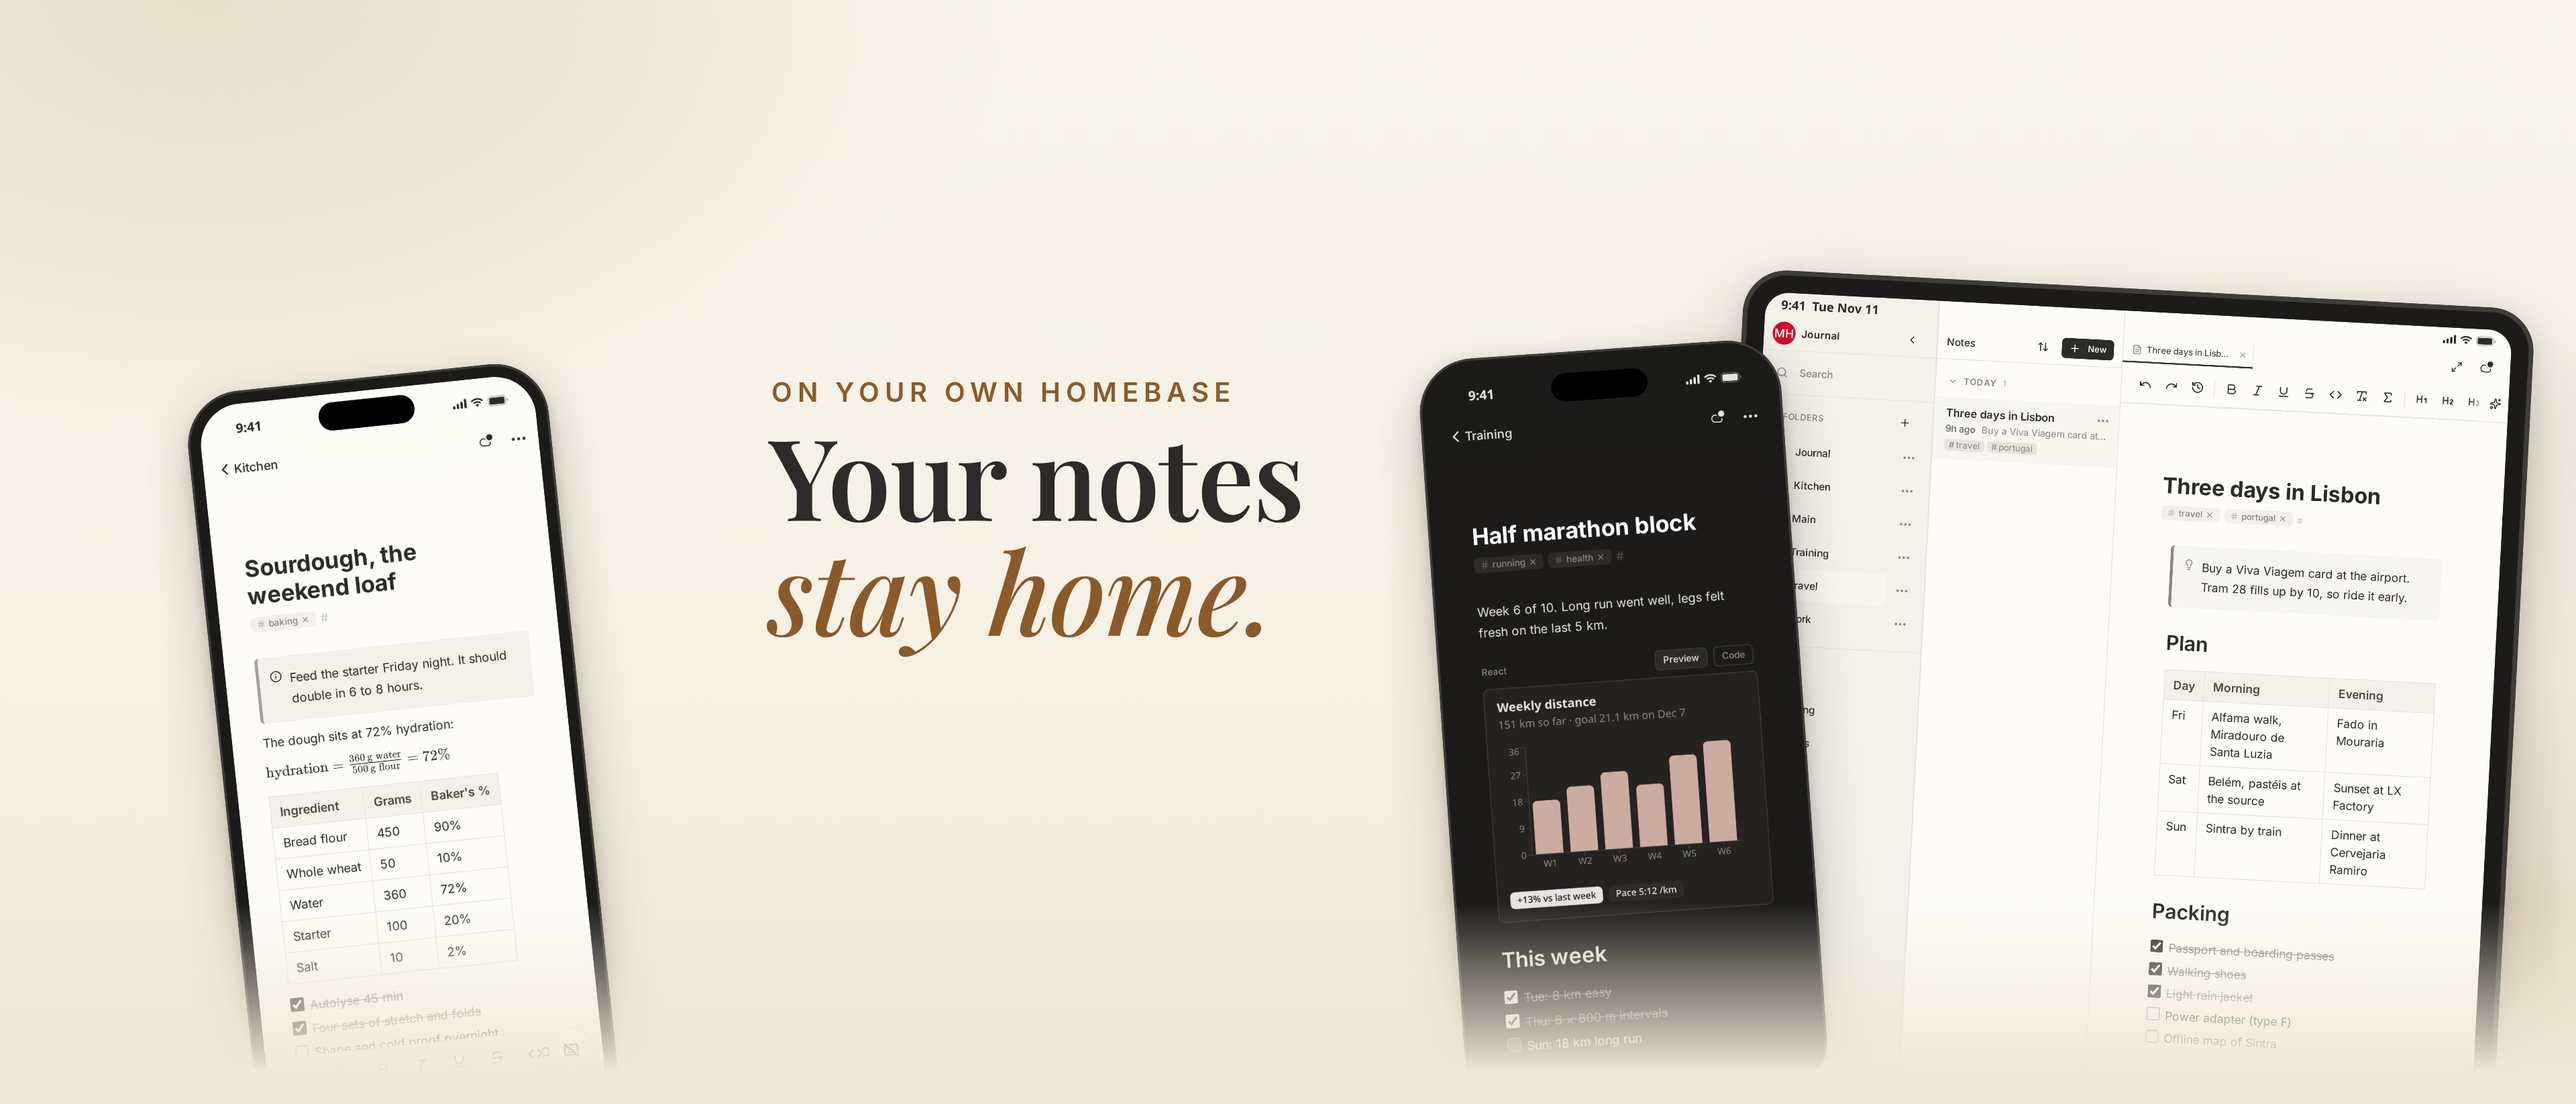
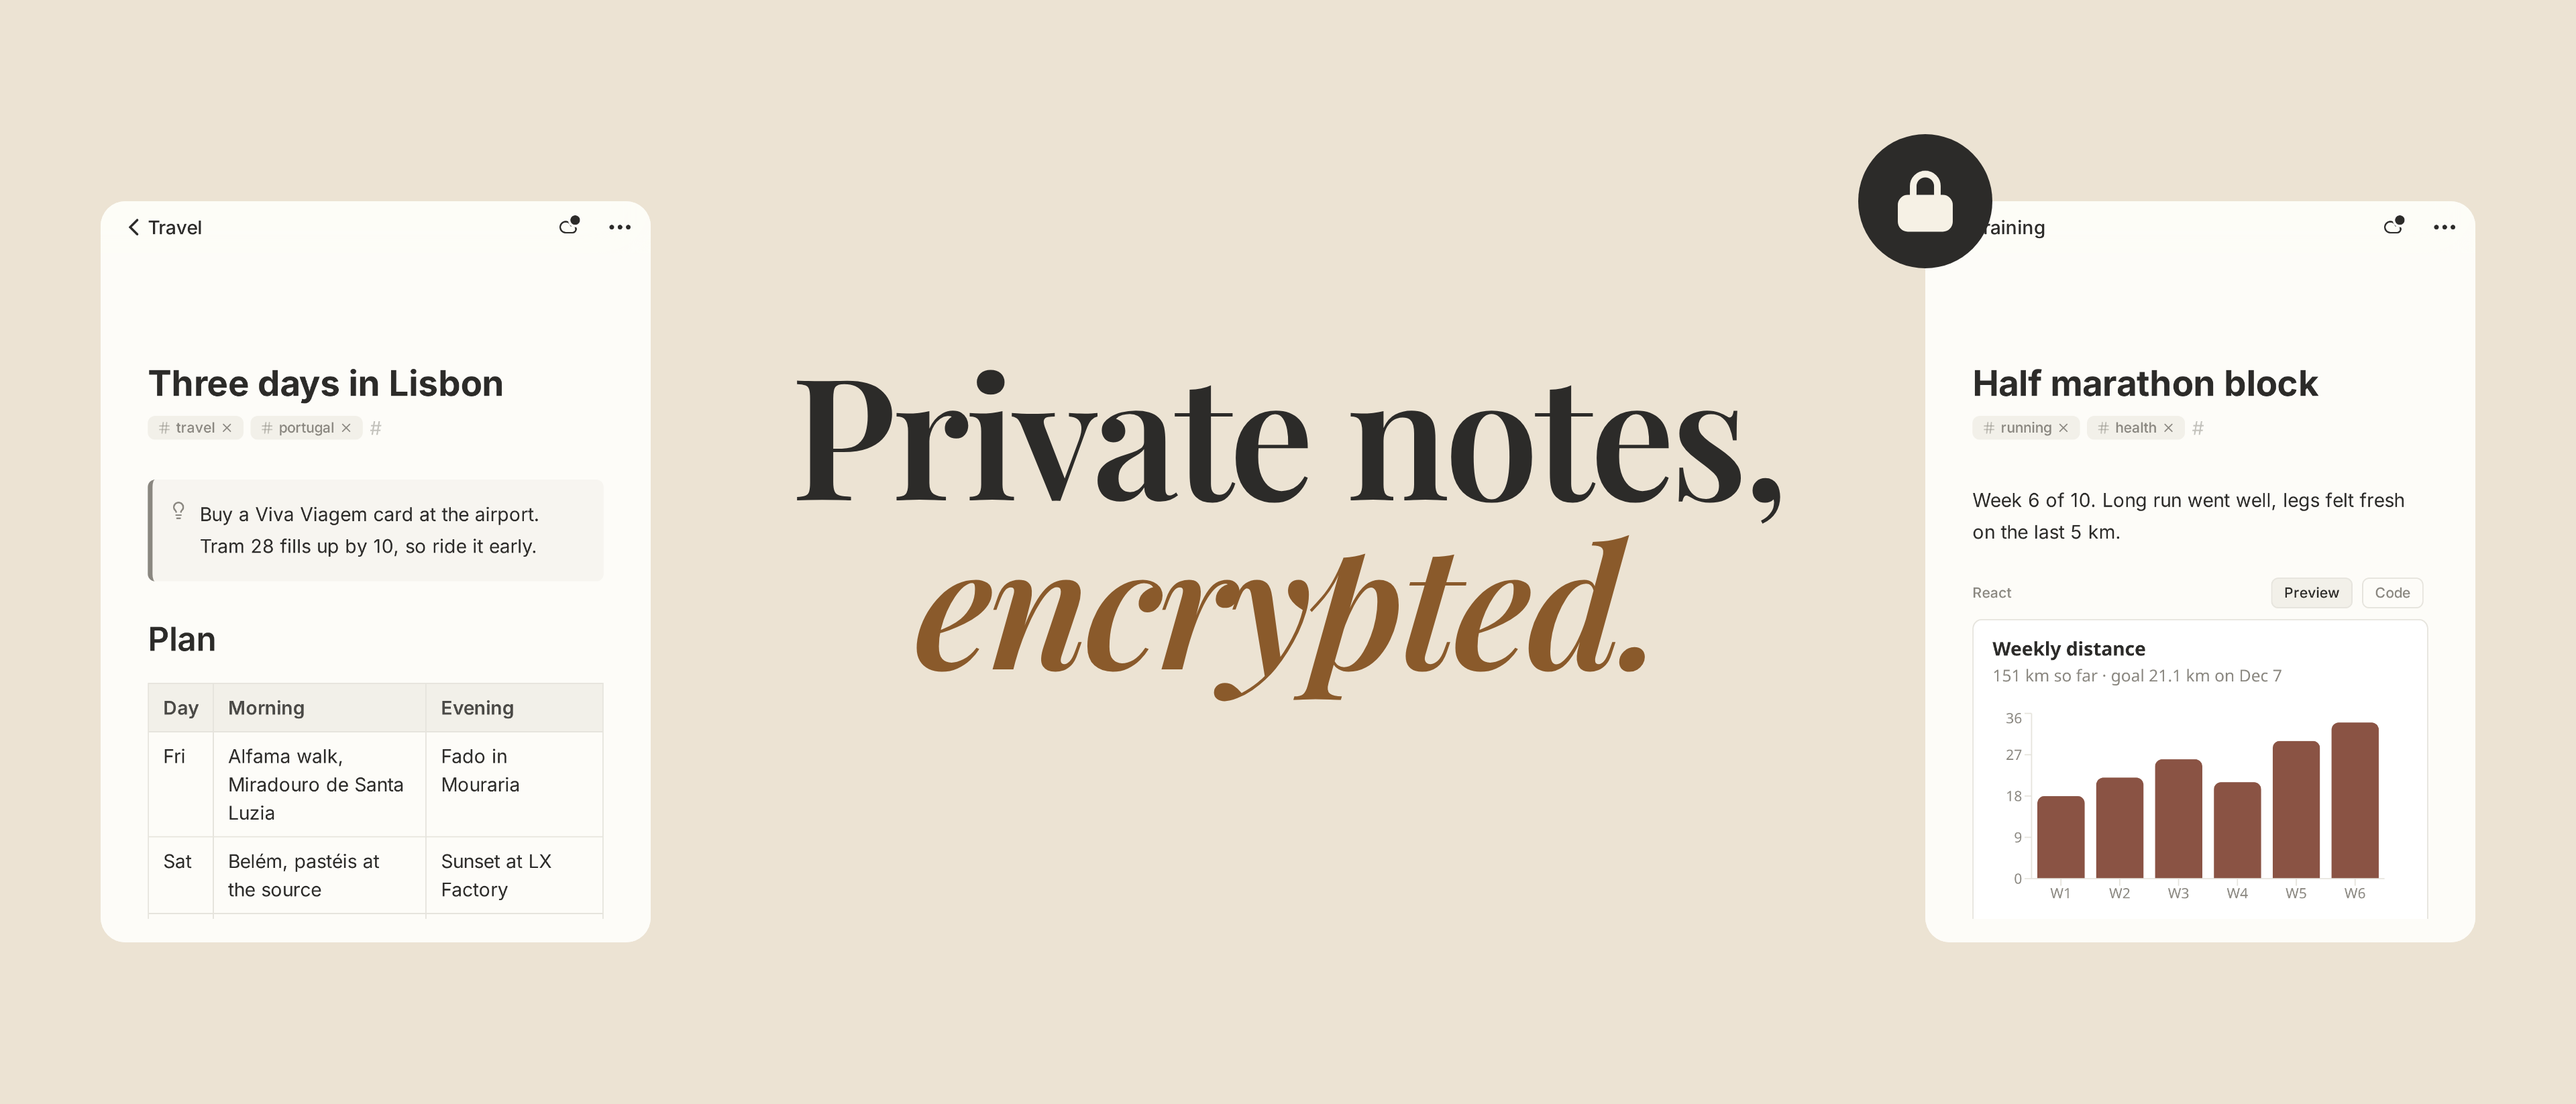
docs(brand): privacy-first positioning, Journal+ naming, new store header art (#1293)

Changed region(s): [[0.2812, 0.1239, 1.0, 0.9605], [0.0312, 0.1549, 0.25, 0.9605]]

diff --git a/brand/positioning.md b/brand/positioning.md
@@ -2,7 +2,21 @@
 
 Status: draft, 2026-10-09. Claims about Journal come from the repo and issues #555, #563 and #564. Claims about other products are footnoted; a cell we could not check says "—".
 
-## Your notes on your device, private by design.
+## Private notes, encrypted.
+
+Store subtitle: "Encrypted Markdown notebook". Supporting line: "Your notes stay home."
+
+### Naming
+
+- The PWA and the website are **Journal**.
+- The native apps (iOS, Android, Mac, Windows, Linux) are **Journal+**.
+- The store listings are named **Journal - Private Notes**.
+
+### Pricing
+
+Free to download, with a 3-day trial, then a one-time purchase that includes 1 year of updates. The app keeps working after that year. No subscription.
+
+### Your notes on your device, private by design.
 
 Journal is a notebook that keeps every note in a database inside your browser, so it opens fast and works offline. Sync is a layer on top, not the place your notes live. AI agents can write in your notes through an MCP server, and only in the folders and notes you allow. They can build live blocks (Mermaid diagrams, SVG, HTML and React) that run inside the note instead of in a separate chat. When you want to publish a note, it goes out from your own private space as a public page. Journal is open source under the AGPL-3.0.
 

diff --git a/brand/README.md b/brand/README.md
@@ -8,9 +8,20 @@
 
 ## Taglines
 
-1. **Private by design.**
-2. **Your notes stay home.**
-3. **Agents build. You keep it.**
+1. **Private notes, encrypted.** (lead; store subtitle: "Encrypted Markdown notebook")
+2. **Private by design.**
+3. **Your notes stay home.** (supporting line, not the lead)
+4. **Agents build. You keep it.**
+
+## Naming
+
+- The PWA and the website are **Journal**.
+- The native apps (iOS, Android, Mac, Windows, Linux) are **Journal+**.
+- The store listings are named **Journal - Private Notes**.
+
+## Pricing
+
+Free to download, with a 3-day trial, then a one-time purchase that includes 1 year of updates. The app keeps working after that year. No subscription.
 
 Lead with privacy and the device. Homebase is "your own private space" under the hood, never a requirement. See [positioning.md](positioning.md).
 
